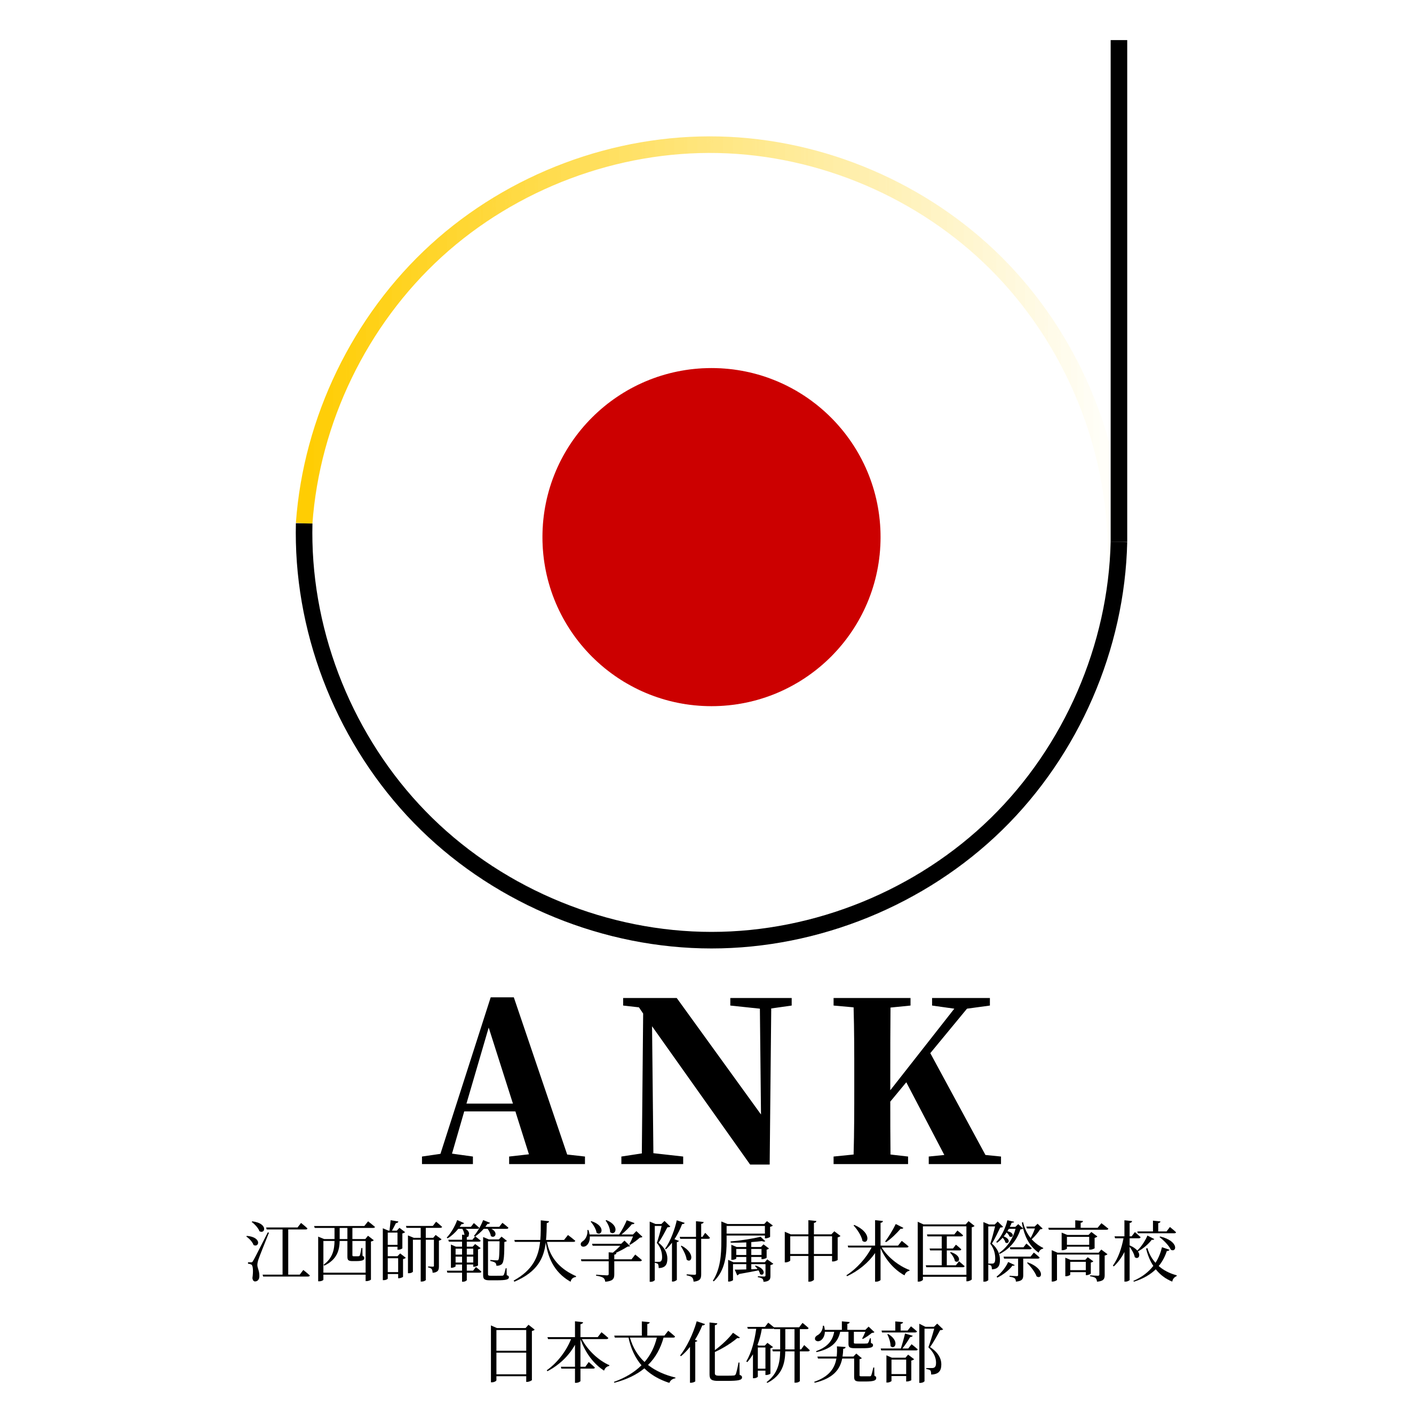
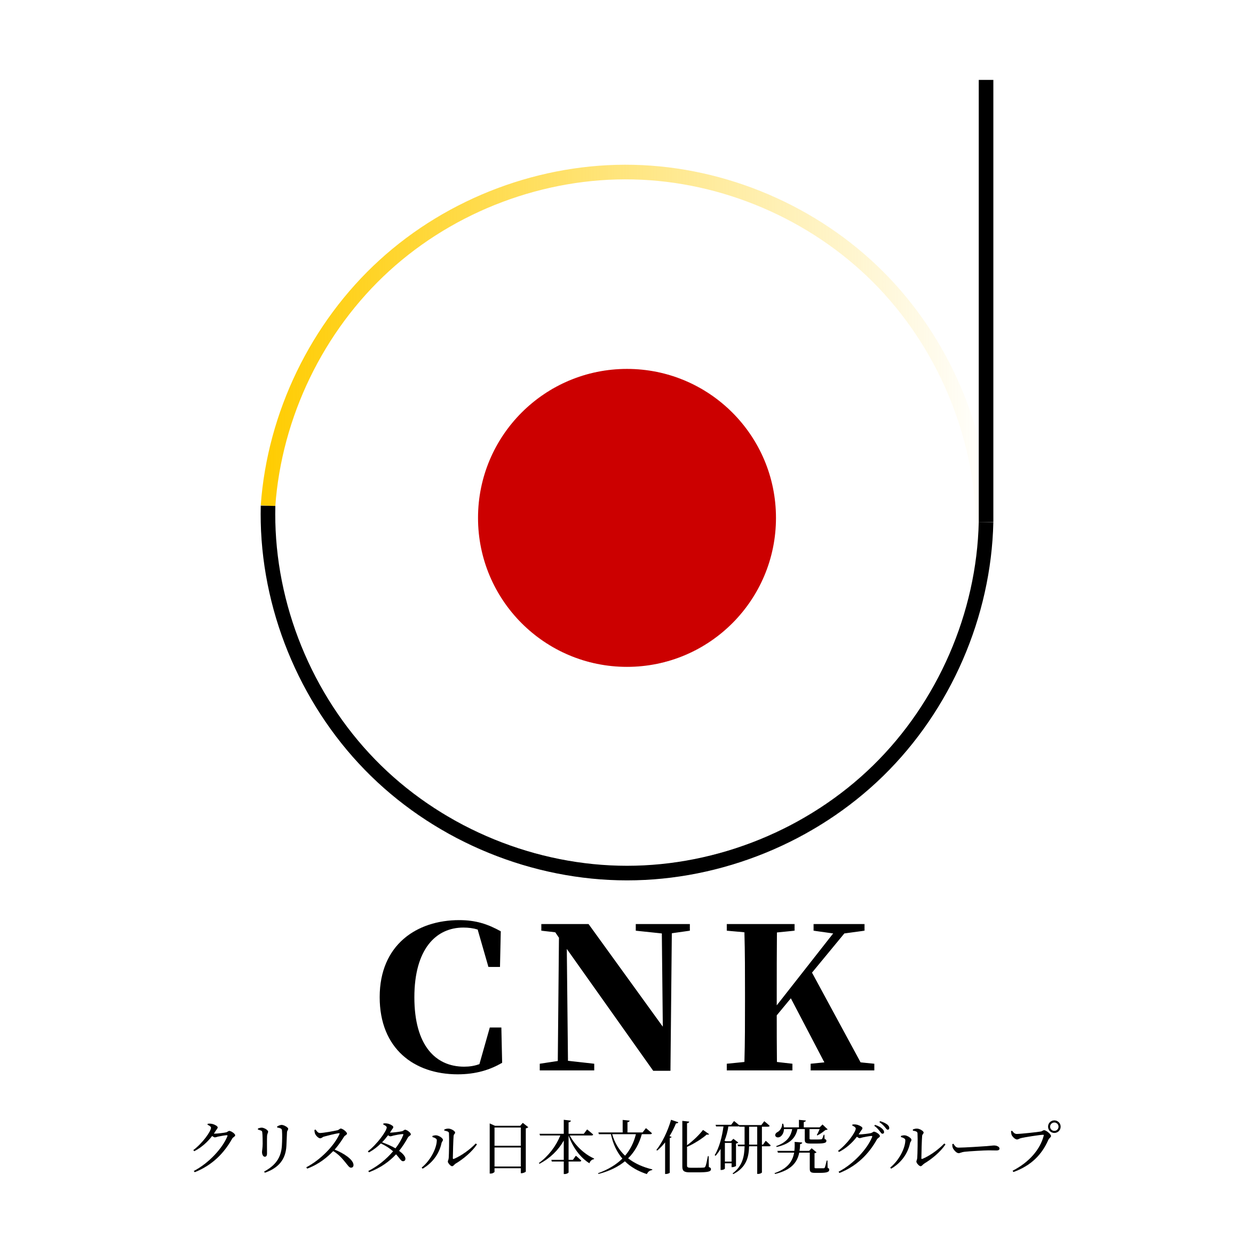
rename

Changed region(s): [[0.1553, 0.0932, 0.8387, 0.994], [0.3728, 0.2485, 0.6213, 0.5281], [0.7766, 0.0311, 0.8077, 0.0621]]

diff --git a/protected/content/html/header.html b/protected/content/html/header.html
@@ -6,8 +6,8 @@
     <meta http-equiv="X-UA-Compatible" content="IE=edge">
     <meta name="viewport" content="width=device-width, initial-scale=1, shrink-to-fit=no">
     <meta name="description" content="{{ meta_description }}">
-    <meta name="keywords" content="AMSJXNU Nippon Bunka Kenkyu Bu, ANK, 江西師範大学附属中学日本文化研究部, 江西師範大学附属高校日本文化研究部,　江西師範大学附属中米国際高校日本文化研究部, 江西师大附中日本文化研究社, 江西师大附中中美班日本文化研究社, 江西师范大学附属中学日本文化研究社, Attached Middle School to Jiangxi Normal University Nippon Bunka Kenkyu Bu, AMSJXNU, Attached Middle School to Jiangxi Normal University, 江西師範大学附属中学, 江西師範大学附属高校, 江西師範大学附属中米国際高校, 江西师范大学附属中学, 江西师大附中, 江西师大附中中美班, AMSJXNU Japan Culture Research Club, Attached Middle School to Jiangxi Normal University Japan Culture Research Club, Japan Culture Research Club, 日本文化研究部, 日本文化研究社">
-    <meta name="author" content="ANK & AITC & CWS">
+    <meta name="keywords" content="Crystal Nippon Bunka Kenkyu Gurupu, CNK, クリスタル日本文化研究グループ, Crystal日本文化研究组, Crystal 日本文化研究组, AMSJXNU, Attached Middle School to Jiangxi Normal University, 江西師範大学附属中学, 江西師範大学附属高校, 江西師範大学附属中米国際高校, 江西师范大学附属中学, 江西师大附中, 江西师大附中中美班, Crystal Japan Culture Research Group, Japan Culture Research Group, 日本文化研究グループ, 日本文化研究组">
+    <meta name="author" content="CNK & AITC & CWS">
     <title>{{ title }}</title>
 
     <link rel="stylesheet" href="https://stackpath.bootstrapcdn.com/bootstrap/4.3.1/css/bootstrap.min.css" integrity="sha384-ggOyR0iXCbMQv3Xipma34MD+dH/1fQ784/j6cY/iJTQUOhcWr7x9JvoRxT2MZw1T" crossorigin="anonymous">
@@ -29,7 +29,7 @@
     <script src="/js/video.js"></script>
 
     <nav class="navbar navbar-expand-lg sticky-top navbar-light gradient-sakura" style="z-index: 500">
-        <a class="navbar-brand" href="#"><img class="navbar-brand-img" src="/img/ank.svg"> <span class="header-lg">{{ club_name }}</span> <span class="header-sm">ANK</span></a>
+        <a class="navbar-brand" href="#"><img class="navbar-brand-img" src="/img/cnk.svg"> <span class="header-lg">{{ org_name }}</span> <span class="header-sm">CNK</span></a>
         <button class="navbar-toggler" type="button" data-toggle="collapse" data-target="#navbarSupportedContent" aria-controls="navbarSupportedContent" aria-expanded="false" aria-label="Toggle navigation">
             <span class="navbar-toggler-icon"></span>
         </button>

diff --git a/protected/content/html/footer.html b/protected/content/html/footer.html
@@ -18,14 +18,14 @@
                     {{ copyright }}
                 </span>
                 <span class="footer-sm">
-                    &copy; ANK
+                    &copy; CNK
                 </span>
             </div>
             <div class="mr-auto">
                 <span class="footer-lg">{{ follow_us }}</span>
                 <div class="btn-group">
-                    <a class="btn btn-sakura" role="button" href="mailto:ank@mail.cstu.gq" target="_blank"><i class="fas fa-envelope" alt="Email"></i></a>
-                    <a class="btn btn-sakura" role="button" href="https://twitter.com/ank19x" target="_blank"><i class="fab fa-twitter" alt="Twitter"></i></a>
+                    <a class="btn btn-sakura" role="button" href="mailto:cnk@mail.cstu.gq" target="_blank"><i class="fas fa-envelope" alt="Email"></i></a>
+                    <a class="btn btn-sakura" role="button" href="https://twitter.com/cnk19x" target="_blank"><i class="fab fa-twitter" alt="Twitter"></i></a>
                     <a class="btn btn-sakura" role="button" href="https://2401361847.qzone.qq.com" target="_blank"><i class="fab fa-qq" alt="Qzone (Chinese)"></i></a>
                 </div>
             </div>

diff --git a/js/video.js b/js/video.js
@@ -25,7 +25,7 @@ function livePlay(url) {
 
 function livePage() {
     var video = document.getElementById('videoElement');
-    hls.loadSource("https://hls.cstu.gq/ank/index.m3u8");
+    hls.loadSource("https://hls.cstu.gq/cnk/index.m3u8");
     hls.attachMedia(video);
     hls.on(Hls.Events.ERROR, function (event, data) {
         if (data.fatal && data.type == Hls.ErrorTypes.NETWORK_ERROR) {

diff --git a/protected/lib/php/translation.php b/protected/lib/php/translation.php
@@ -24,10 +24,10 @@ $lang = $_COOKIE['lang'];
 $translation_japanese = array(
     "lang_code" => "ja",
     "homepage" => "ホームページ",
-    "club_name" => "江西師範大学附属中米国際高校日本文化研究部",
+    "org_name" => "クリスタル日本文化研究グループ",
     "switch_lang" => "言語選択",
     "follow_us" => "フォローする：",
-    "copyright" => "Copyright AMSJXNU Nippon Bunka Kenkyu Bu All rights reserved.",
+    "copyright" => "Copyright Crystal Nippon Bunka Kenkyu Gurupu All rights reserved.",
     "home" => "ホーム",
     "news" => "ニュース",
     "culture" => "文化",
@@ -36,8 +36,8 @@ $translation_japanese = array(
     "view" => "見る",
     "back" => "戻す",
     "top" => "おすすめ",
-    "explore" => "ANKを探索する",
-    "meta_description" => "日中交流を促進している日本文化研究部",
+    "explore" => "CNKを探索する",
+    "meta_description" => "日中交流を促進している日本文化研究グループ",
     "tv" => "テレビ",
     "live" => "ライブ",
     "notice" => "お知らせ",
@@ -54,10 +54,10 @@ $translation_japanese = array(
 $translation_chinese = array(
     "lang_code" => "zh",
     "homepage" => "主页",
-    "club_name" => "江西师大附中中美班日本文化研究社",
+    "org_name" => "Crystal 日本文化研究组",
     "switch_lang" => "语言选择",
     "follow_us" => "关注我们：",
-    "copyright" => "版权归江西师大附中中美班日本文化研究社所有",
+    "copyright" => "版权归 Crystal 日本文化研究组所有",
     "home" => "主页",
     "news" => "新闻",
     "culture" => "文化",
@@ -66,8 +66,8 @@ $translation_chinese = array(
     "view" => "查看",
     "back" => "返回",
     "top" => "置顶",
-    "explore" => "深入了解 ANK",
-    "meta_description" => "一个推动中日交流的日本文化研究社团",
+    "explore" => "深入了解 CNK",
+    "meta_description" => "一个推动中日交流的日本文化研究学生组织",
     "tv" => "电视",
     "live" => "直播",
     "notice" => "请注意",
@@ -78,16 +78,16 @@ $translation_chinese = array(
     "message" => "消息",
     "send" => "发送",
     "sync" => "同步",
-    "bio" => "连接中国和日本。"
+    "bio" => "连结中国和日本。"
 );
 
 $translation_english = array(
     "lang_code" => "en",
     "homepage" => "Homepage",
-    "club_name" => "AMSJXNU Nippon Kenkyu",
+    "org_name" => "Crystal Nippon Kenkyu",
     "switch_lang" => "Switch language",
     "follow_us" => "Follow us: ",
-    "copyright" => "Copyright AMSJXNU Japanese Culture Research Club All rights reserved.",
+    "copyright" => "Copyright Crystal Japanese Culture Research Group All rights reserved.",
     "home" => "Home",
     "news" => "News",
     "culture" => "Culture",
@@ -96,8 +96,8 @@ $translation_english = array(
     "view" => "View",
     "back" => "Back",
     "top" => "Featured",
-    "explore" => "Explore ANK",
-    "meta_description" => "An Japanese club prolonging communication between China and Japan",
+    "explore" => "Explore CNK",
+    "meta_description" => "An Japanese club prolonging the friendship between China and Japan",
     "tv" => "TV",
     "live" => "Live",
     "notice" => "Notice",

diff --git a/protected/lib/php/db.php b/protected/lib/php/db.php
@@ -6,7 +6,7 @@ function insert_msg(string $msg) {
     global $sql_host, $sql_username, $sql_password;
     $conn = new mysqli($sql_host, $sql_username, $sql_password);
     $timestamp = time();
-    $sql = "INSERT INTO ank.livechat (t, msg) VALUES (" . $timestamp . ", '" . $msg . "')";
+    $sql = "INSERT INTO cnk.livechat (t, msg) VALUES (" . $timestamp . ", '" . $msg . "')";
     $ret = $conn->query($sql);
     $conn->close();
     return $ret;
@@ -15,9 +15,9 @@ function insert_msg(string $msg) {
 function gc_msg() {
     global $sql_host, $sql_username, $sql_password;
     $conn = new mysqli($sql_host, $sql_username, $sql_password);
-    $sql_get_last = "SELECT * FROM ank.livechat ORDER BY t DESC LIMIT 19, 20";
+    $sql_get_last = "SELECT * FROM cnk.livechat ORDER BY t DESC LIMIT 19, 20";
     $bottom = $conn->query($sql_get_last)->fetch_assoc()["t"];
-    $sql_del = "DELETE FROM ank.livechat WHERE t < " . $bottom;
+    $sql_del = "DELETE FROM cnk.livechat WHERE t < " . $bottom;
     $ret = $conn->query($sql_del);
     $conn->close();
     return $ret;
@@ -27,7 +27,7 @@ function get_msg(int $last_time) {
     gc_msg();
     global $sql_host, $sql_username, $sql_password;
     $conn = new mysqli($sql_host, $sql_username, $sql_password);
-    $sql = "SELECT * FROM ank.livechat";
+    $sql = "SELECT * FROM cnk.livechat";
     $res = $conn->query($sql);
     $conn->close();
     $ret = array();

diff --git a/protected/lib/php/global.php b/protected/lib/php/global.php
@@ -22,8 +22,8 @@ function header_show(string $title, string $current, array $links) {
     if (substr($_SERVER['REQUEST_URI'], -9) == "index.php") exit;
     echo(dynamic_element_handle("header", array(
         "lang" => translation_get("lang_code"),
-        "title" => $title . " - " . translation_get("club_name"),
-        "club_name" => translation_get("club_name"),
+        "title" => $title . " - " . translation_get("org_name"),
+        "org_name" => translation_get("org_name"),
         "navbar_items" => navbar_item_generator($links, $current),
         "meta_description" => translation_get("meta_description")
     )));
@@ -64,7 +64,7 @@ function header_show(string $title, string $current, array $links) {
 function footer_show() {
     echo(dynamic_element_handle("footer", array(
         "switch_lang" => translation_get("switch_lang"),
-        "club_name" => translation_get("club_name"),
+        "org_name" => translation_get("org_name"),
         "follow_us" => translation_get("follow_us"),
         "copyright" => translation_get("copyright")
     )));

diff --git a/abbr/index.php b/abbr/index.php
@@ -8,7 +8,7 @@ $abbr = array(
     "" => "/",
     "qq" => "https://wpa.qq.com/msgrd?v=3&uin=2401361847",
     "2019nyuubugrp" => "https://shang.qq.com/wpa/qunwpa?idkey=b7047ff3406d0c47f327c0abbb3e8196a51eab3b59ce8d5643fe22ac78fdf378",
-    "twitter" => "https://twitter.com/ank19x"
+    "twitter" => "https://twitter.com/cnk19x"
 );
 
 http_response_code(302);

diff --git a/protected/content/post/culture/20190814/en.md b/protected/content/post/culture/20190814/en.md
@@ -10,11 +10,11 @@ Gifu is conducted by Mino Province, the northern part, and Hida Province, the so
 
 A few hours after departing by a Nohi bus from Nagoya, I arrived in Takayama, one of the main cities in Hida Province. It reserves its main figure since the Edo period, which brings it an alias "the tiny Kyoto of Hida". Called with "city", it is more similar to a silent town. Walking on its street without hustle and bustle in a metropolis and enjoying the cool different from other places in summer is a relaxing activity after palatable Wagyu beef.
 
-The first spot explored was Shirakawa village, which is renowned for its Gassho-style houses, and registered as a World Heritage. The style is built to survive the harsh winter with heavy snowfall, and it was named by the meaning of "bring hands together and pray to the gods" in Japanese. Once climb to a hill, you can take a shot for the harmony scene, the whole village constructed by the kawaii traditional houses. The winter light-up event holds in Shirakawa every year, amassing tourists around the world to take a photo of the warm lights breathing in the wide coverage of snow. The event is so popular that local government runs a full-reservation policy for it.
+The first spot explored was Shirakawa village, which is renowned for its Gassho-style houses, and registered as a World Heritage. The style is built to survive the harsh winter with heavy snowfall, and it was named by the meaning of "bring hands together and pray to the gods" in Japanese. Once you climb to a hill, you can take a shot for the harmony scene, the whole village constructed by the kawaii traditional houses. The winter light-up event holds in Shirakawa every year, amassing tourists around the world to take a photo of the warm lights breathing in the wide coverage of snow. The event is so popular that the local government runs a full-reservation policy for it.
 
-Hida Furukawa was the next destination, which is a town in Hida city. It is famous for the record-breaking animation movie *Your Name.* released on August 2016. JR Hida Furukawa station and the public library have been illustrated as the background of some moving scenes in the movie. Posters are common in public places, and there is a character book of *Your Name.* and a notebook in the city library allowing tourists from all latitudes to impress their footprints in Hida, and local landscapes in their minds by writing comments or drawing sketches on the notebook which can be viewed by anyone.
+Hida Furukawa was the next destination, which is a town in Hida city. It is famous for the record-breaking animation movie *Your Name.* released in August 2016. JR Hida Furukawa station and the public library have been illustrated as the background of some moving scenes in the movie. Posters are common in public places, and there is a character book of *Your Name.* and a notebook in the city library allowing tourists from all latitudes to impress their footprints in Hida, and local landscapes in their minds by writing comments or drawing sketches on the notebook which can be viewed by anyone.
 
-The cartoon figure of Hida beef has also been widespread with the explosion of *Your Name.* The beef is in the best 3 levels of quality, and the best 2 levels of yield grade of Wagyu beef. Besides the unquestionably excellent of quality, the price is high. Having lunch with my family with hand-rolled sushi and rice made with Hida beef, our expenses broke 10,000 yen easily.
+The cartoon figure of Hida beef has also been widespread with the explosion of *Your Name.* The beef is in the best 3 levels of quality, and the best 2 levels of yield grade of Wagyu beef. Besides the unquestionably excellent quality, the price is high. Having lunch with my family with hand-rolled sushi and rice made with Hida beef, our expenses broke 10,000 yen easily.
 
 That is all the story of me, a Chinese tourist, in Gifu Prefecture. Thanks for joining us.
 

diff --git a/protected/content/post/news/20190807/zh.md b/protected/content/post/news/20190807/zh.md
@@ -4,16 +4,16 @@
 
 ---
 
-在2019年8月7号，江西师大附中日本文化研究社官方网站正式上线。
+在2019年8月7号，江西师大附中日本文化研究组官方网站正式上线。
 
-首先先对日本文化研究社的所有社员表示感谢，感谢他们对建站的大力支持和辛苦付出。
+首先先对日本文化研究组的所有组员表示感谢，感谢他们对建站的大力支持和辛苦付出。
 
-日本文化研究社在2019年创办，是一个富有生命活力的新社团，同时在每年的9月入学之际，我们会进行社团招新。欢迎加入我们。
+日本文化研究组在2019年创办，是一个富有生命活力的新组织，同时在每年的9月入学之际，我们会进行组织招新。欢迎加入我们。
 
-除了线下参与社团活动了解该社团，新上线的网站也会在第一时间跟进最新动态。
+除了线下参与组织活动了解该组织，新上线的网站也会在第一时间跟进最新动态。
 
-网站开设“新闻”、“文化”、“点播”、“直播”、“电视”五个主要栏目。通过“新闻”栏目，您可以获取关于社团的最新信息，招新和活动均会在此栏目公布。“文化”栏目中会不定期登载社员对于日本文化的想法和了解。“点播”和“直播”栏目则为社内外人员提供完整的日语和日本文化课程体验。“电视”栏目可以助您通过收看日本的电视台，感受日本的别样文化。
+网站开设“新闻”、“文化”、“点播”、“直播”、“电视”五个主要栏目。通过“新闻”栏目，您可以获取关于组织的最新信息，招新和活动均会在此栏目公布。“文化”栏目中会不定期登载组员对于日本文化的想法和了解。“点播”和“直播”栏目则为组员内外人员提供完整的日语和日本文化课程体验。“电视”栏目可以助您通过收看日本的电视台，感受日本的别样文化。
 
-以上是日本文化研究社官方网站的基本信息。
+以上是日本文化研究组官方网站的基本信息。
 
 更多内容敬请通过网站下方的联系方式咨询我们。

diff --git a/protected/content/post/news/top-20190901/zh.md b/protected/content/post/news/top-20190901/zh.md
@@ -6,11 +6,11 @@
 
 嗨多磨<span class="iconify" data-icon="twemoji:flag-for-japan" data-inline="false"></span>
 
-欢迎光临日本文化研究社
+欢迎光临日本文化研究组
 
 很荣幸与大家相遇
 
-在令和元年的夏秋之际，随着本年度的新生入学，我社的招新工作开始啦
+在令和元年的夏秋之际，随着本年度的新生入学，我组的招新工作开始啦
 
 如果你对日本文化感兴趣
 
@@ -18,31 +18,31 @@
 
 那么
 
-日本文化研究社绝对是你最好的选择
+日本文化研究组绝对是你最好的选择
 
 ---
 
-我社是一个新兴社团，为了让社团注入新鲜血液，以及为社团增加新的活力
+我组是一个新兴组织，为了让组织注入新鲜血液，以及为组织增加新的活力
 
 我们一共有 4 个部门，一定会有一个是适合你的
 
-1. 研究部
+1. 研究グループ
 日常研究日日本文文化，探讨学术交流
 
 2. 宣传部
-宣传社团，宣传日本文化，工作内容多样
+宣传组织，宣传日本文化，工作内容多样
 
-3. 外交部
-社团活动各方面的安排是由外交部来安排的，如拉赞助等，要勇于和陌生人交流
+3. 外联部
+组织活动各方面的安排是由外交部来安排的，如拉赞助等，要勇于和陌生人交流
 
 4. 策划部
-策划社团活动，需要一定的组织能力
+策划组织活动，需要一定的组织能力
 
 ---
 
 申请书下载链接（MS Word格式）：
 
-[English](/attachment/news/20190901/Application%20Form.docx) [日本語](/attachment/news/20190901/入部届.docx) [中文](/attachment/news/20190901/申请书.docx)
+[English](/attachment/news/20190901/Application%20Form.docx) [日本語](/attachment/news/20190901/入組届.docx) [中文](/attachment/news/20190901/申请书.docx)
 
 ---
 
@@ -50,4 +50,4 @@
 
 后续活动通知可以通过QQ加入我们的招新群：590102812
 
-其他咨询方式：邮箱ank@mail.cstu.gq，推特@ank2019x
+其他咨询方式：邮箱cnk@mail.cstu.gq，推特@cnk2019x

diff --git a/protected/content/post/news/top-20190901/ja.md b/protected/content/post/news/top-20190901/ja.md
@@ -1,4 +1,4 @@
-# 部員になりましょう
+# 成員になりましょう
 
 作者：ニコ
 
@@ -6,19 +6,19 @@
 
 ---
 
-ようこそ日本文化研究部へ
+ようこそ日本文化研究グループへ
 
 皆様にお会いして幸いと感じます
 
-令和元年の夏と秋の交差点で、新しい教室へ変わって、部員を募集するについての活動が始まりました
+令和元年の夏と秋の交差点で、新しい教室へ変わって、成員を募集するについての活動が始まりました
 
 日本の文化か日本語に興味があれば、ぜひ私たちへ参加してください
 
 ---
 
-私たちは若い部から、元気を輸入するのために
+私たちは若いグループから、元気を輸入するのために
 
-四つ部員課があります
+四つ課があります
 
 1. 研究課
 2. 宣伝課
@@ -29,13 +29,13 @@
 
 申込書のダウンロードリンク（MS Wordファイル）：
 
-[English](/attachment/news/20190901/Application%20Form.docx) [日本語](/attachment/news/20190901/入部届.docx) [中文](/attachment/news/20190901/申请书.docx)
+[English](/attachment/news/20190901/Application%20Form.docx) [日本語](/attachment/news/20190901/入組届.docx) [中文](/attachment/news/20190901/申请书.docx)
 
 ---
 
 詳しい情報は私たちの公式アカウントから連絡してください：
 
-- メール：ank@mail.cstu.gq
-- ツイッター：@ank2019x
+- メール：cnk@mail.cstu.gq
+- ツイッター：@cnk2019x
 - QQ（中国）：2401361847
 - QQグループ（中国）：590102812

diff --git a/protected/content/post/news/top-20190901/en.md b/protected/content/post/news/top-20190901/en.md
@@ -6,7 +6,7 @@ Translator: Alan, TURX
 
 ---
 
-Welcome to Nippon Bunka Kenkyu Bu (Japan Culture Research Club), and glad to meet you.
+Welcome to Nippon Bunka Kenkyu Gurupu (Japan Culture Research Group), and glad to meet you.
 
 At the interaction of summer and autumn of 2019, with the new schoolmates of this year coming into our school, our enrollment starts.
 
@@ -33,13 +33,13 @@ Plan activities, and your leadership is required.
 
 Download Links of Application Form in MS Word format:
 
-[English](/attachment/news/20190901/Application%20Form.docx) [日本語](/attachment/news/20190901/入部届.docx) [中文](/attachment/news/20190901/申请书.docx)
+[English](/attachment/news/20190901/Application%20Form.docx) [日本語](/attachment/news/20190901/入組届.docx) [中文](/attachment/news/20190901/申请书.docx)
 
 ---
 
 For further information, please contact us on following platforms:
 
-- Mail: ank@mail.cstu.gq
-- Twitter: @ank2019x
+- Mail: cnk@mail.cstu.gq
+- Twitter: @cnk2019x
 - QQ (China): 2401361847
 - QQ Group (China): 590102812
